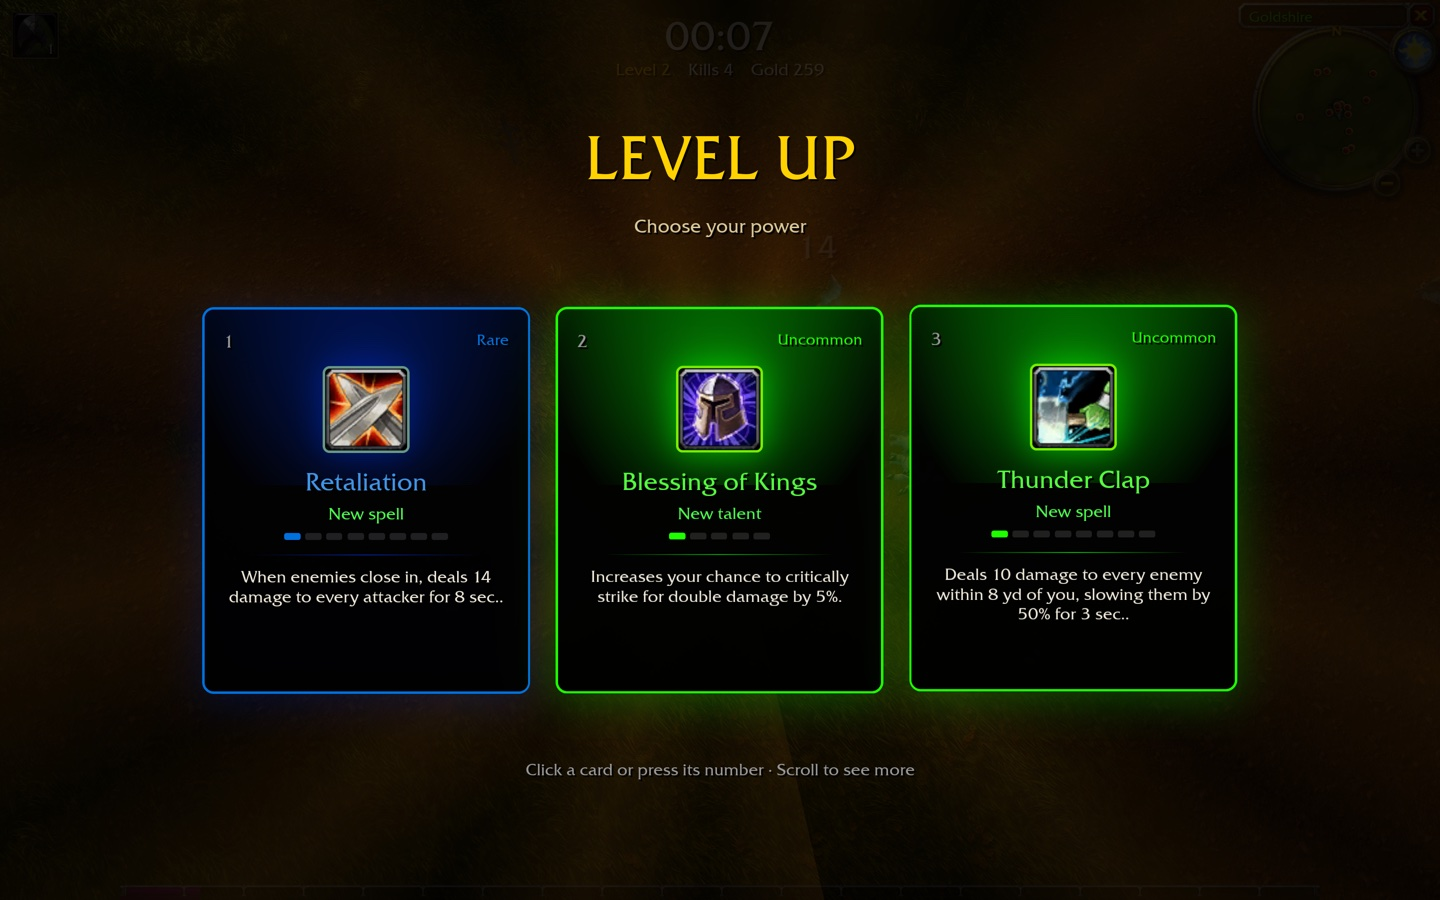
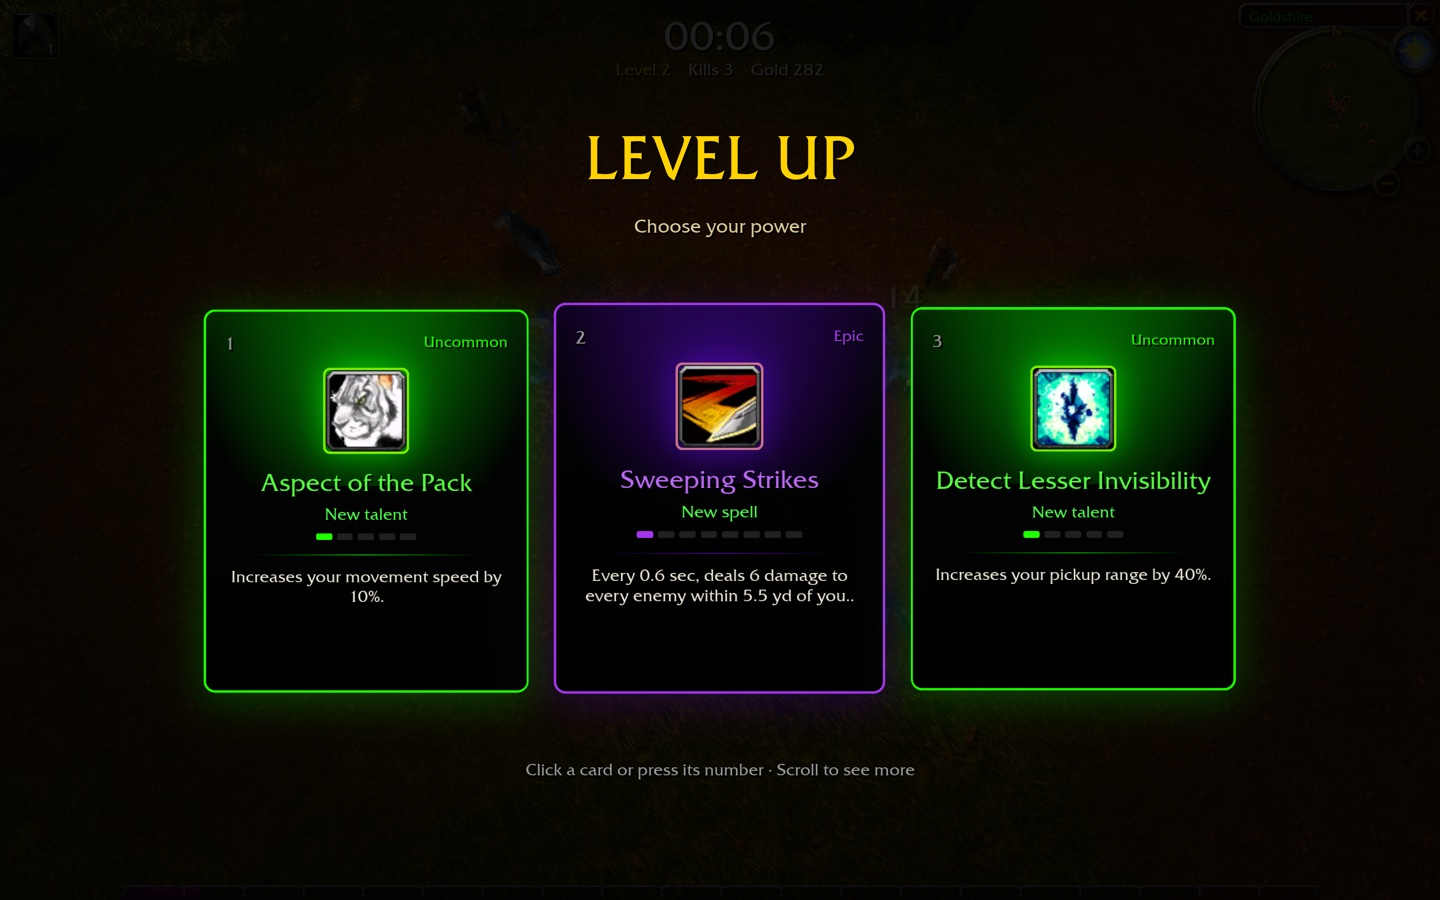
Remove oversized rotating rays behind level-up cards
Native play build passed. Verified clean backdrop on two consecutive hands at 1440x900 logical resolution and confirmed selection advances the run. Refreshed README capture. scripts/check.sh remains blocked by existing formatting in two terrain-stream files; full animation and resolution coverage remains open.

Changed region(s): [[0.125, 0.2178, 0.875, 0.8089]]

diff --git a/crates/benilla-app/src/survivors/hud.rs b/crates/benilla-app/src/survivors/hud.rs
@@ -766,53 +766,6 @@ pub(super) fn setup_hud(
             bevy::ui::FocusPolicy::Pass,
         ))
         .with_children(|root| {
-            // The slow golden burst behind everything.
-            root.spawn((
-                super::cards::Rays,
-                Node {
-                    position_type: PositionType::Absolute,
-                    width: Val::Px(1400.0),
-                    height: Val::Px(1400.0),
-                    left: Val::Percent(50.0),
-                    top: Val::Percent(50.0),
-                    margin: UiRect::new(
-                        Val::Px(-700.0),
-                        Val::Px(0.0),
-                        Val::Px(-700.0),
-                        Val::Px(0.0),
-                    ),
-                    ..default()
-                },
-                BackgroundGradient(vec![
-                    Gradient::Conic(ConicGradient::new(
-                        UiPosition::CENTER,
-                        (0..24)
-                            .map(|i| {
-                                let a = i as f32 / 24.0 * std::f32::consts::TAU;
-                                let on = i % 2 == 0;
-                                AngularColorStop::new(
-                                    if on {
-                                        Color::srgba(1.0, 0.8, 0.3, 0.07)
-                                    } else {
-                                        Color::srgba(1.0, 0.8, 0.3, 0.0)
-                                    },
-                                    a,
-                                )
-                            })
-                            .collect(),
-                    )),
-                    Gradient::Radial(RadialGradient::new(
-                        UiPosition::CENTER,
-                        RadialGradientShape::ClosestSide,
-                        vec![
-                            ColorStop::percent(Color::srgba(1.0, 0.75, 0.25, 0.22), 0.0),
-                            ColorStop::percent(Color::srgba(0.0, 0.0, 0.0, 0.0), 100.0),
-                        ],
-                    )),
-                ]),
-                UiTransform::default(),
-                bevy::ui::FocusPolicy::Pass,
-            ));
             root.spawn((LevelTitle, centered(f, "LEVEL UP", 52.0, GOLD)));
             root.spawn((
                 LevelUpSub,

diff --git a/crates/benilla-app/src/survivors/cards.rs b/crates/benilla-app/src/survivors/cards.rs
@@ -158,10 +158,6 @@ pub(super) struct CardGlow;
 #[derive(Component)]
 pub(super) struct CardShine(usize);
 
-/// The radiant burst behind the row, turning slowly.
-#[derive(Component)]
-pub(super) struct Rays;
-
 /// The pending pick: the card bursts, then the choice applies.
 #[derive(Resource, Default)]
 pub(super) struct PendingPick(Option<(usize, f32)>);
@@ -449,7 +445,6 @@ pub(super) fn animate_cards(
         &mut Visibility,
     )>,
     mut shines: Query<(&CardShine, &mut BackgroundGradient)>,
-    mut rays: Query<&mut UiTransform, (With<Rays>, Without<Card>)>,
     mut pending: ResMut<PendingPick>,
     mut run: ResMut<Run>,
     mut offer: ResMut<Offer>,
@@ -462,10 +457,6 @@ pub(super) fn animate_cards(
     }
     let dt = time.delta_secs().min(0.05);
     let now = time.elapsed_secs();
-    for mut r in &mut rays {
-        r.rotation = Rot2::radians(now * 0.12);
-        r.scale = Vec2::splat(1.0 + 0.03 * (now * 1.7).sin());
-    }
     let chosen = pending.0.map(|(i, _)| i);
     let mut shine_at = [None::<f32>; 4];
     for (mut card, interaction, cursor, mut tf, mut shadow, mut vis) in &mut cards {

diff --git a/README.md b/README.md
@@ -50,7 +50,7 @@ See [capture instructions](docs/SURVIVORS-DEVELOPMENT.md#readme-captures) to ref
   </tr>
   <tr>
     <td width="50%"><strong>Combat HUD</strong><br><img src="docs/screenshots/current-combat.jpg" alt="Combat HUD: Elwynn at run start: health, experience, minimap, abilities and damage meter."><br>Elwynn at run start: health, experience, minimap, abilities and damage meter.</td>
-    <td width="50%"><strong>Level-up cards</strong><br><img src="docs/screenshots/current-level-up.jpg" alt="Level-up cards: Responsive upgrade choices; background rays still need visual correction."><br>Responsive upgrade choices; background rays still need visual correction.</td>
+    <td width="50%"><strong>Level-up cards</strong><br><img src="docs/screenshots/current-level-up.jpg" alt="Level-up cards: Responsive upgrade choices with card-local shine and rarity glow."><br>Responsive upgrade choices with card-local shine and rarity glow.</td>
   </tr>
   <tr>
     <td width="50%"><strong>Pause</strong><br><img src="docs/screenshots/current-pause.jpg" alt="Pause: Resume, settings, abandon and quit controls."><br>Resume, settings, abandon and quit controls.</td>
